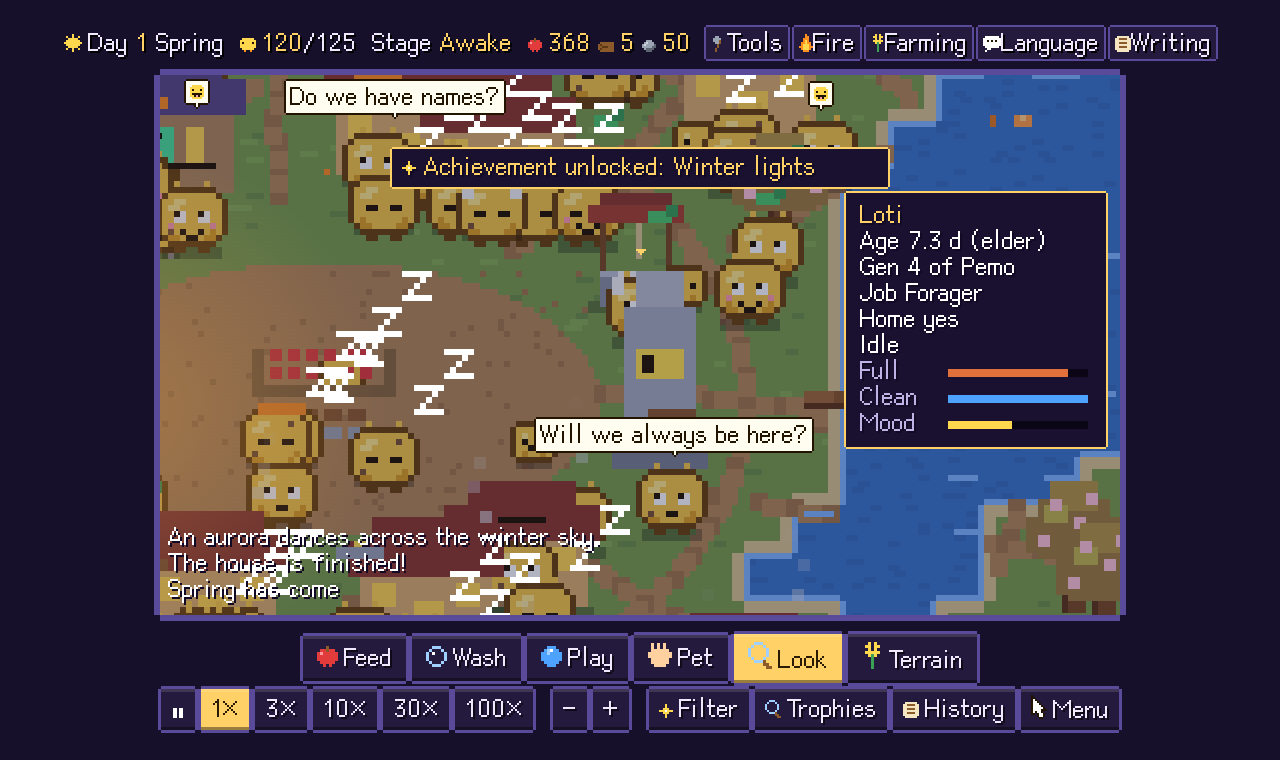
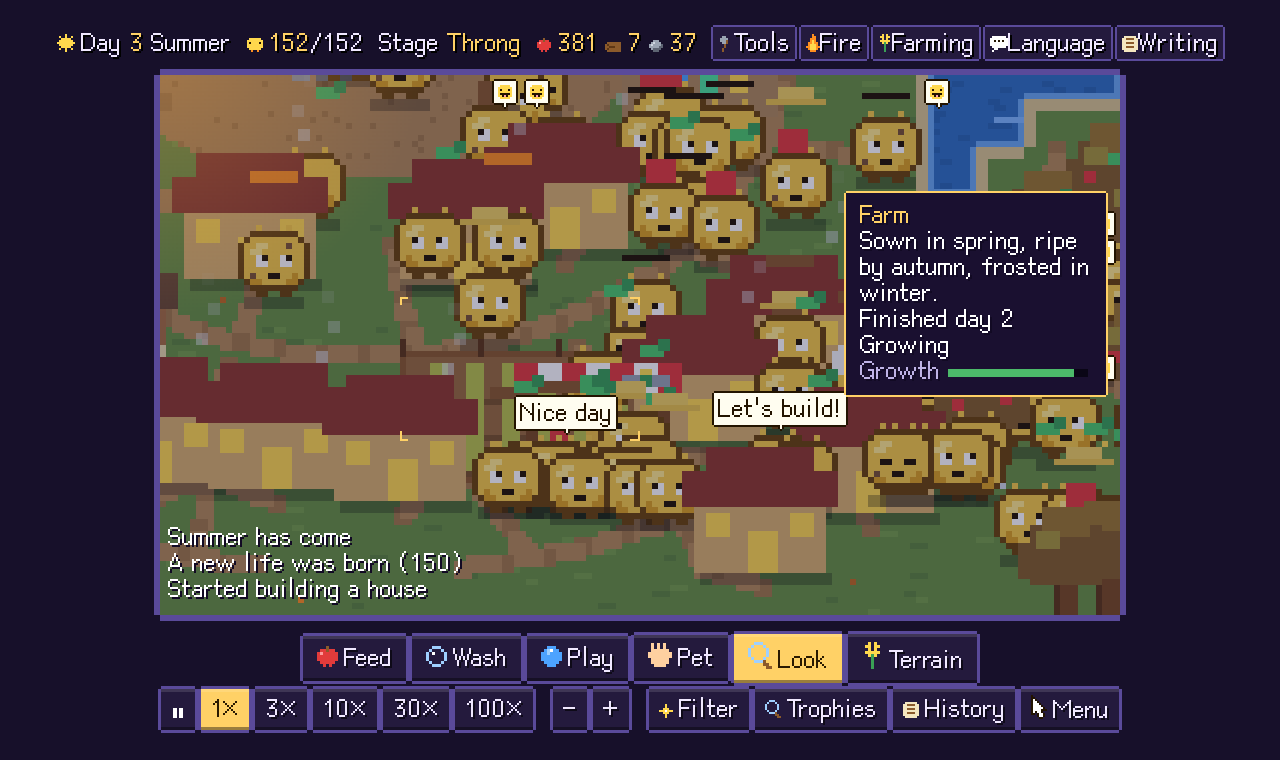
Replace screenshots with spoiler-free ones (before the monument wakes up)

diff --git a/README.md b/README.md
@@ -12,7 +12,7 @@ Single HTML file, zero dependencies, no build step. Open `index.html` and play. 
 
 | | |
 |---|---|
-| ![winter](docs/winter-aurora.png) | ![inspect](docs/inspect.png) |
+| ![winter](docs/winter-filter.png) | ![inspect](docs/inspect.png) |
 
 ## What is in it
 
